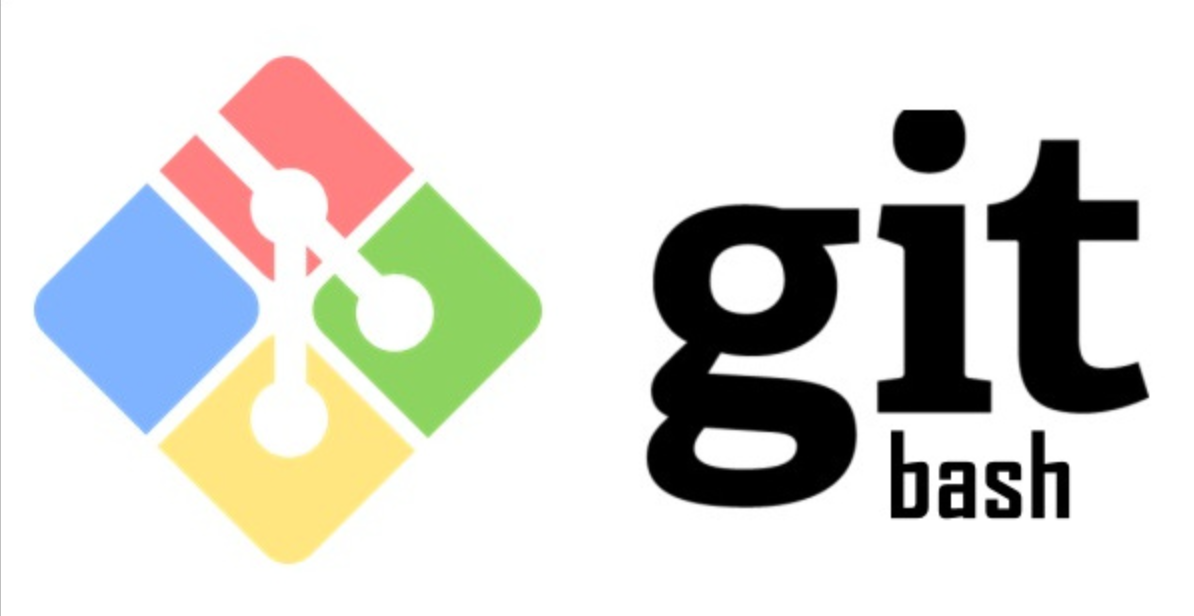
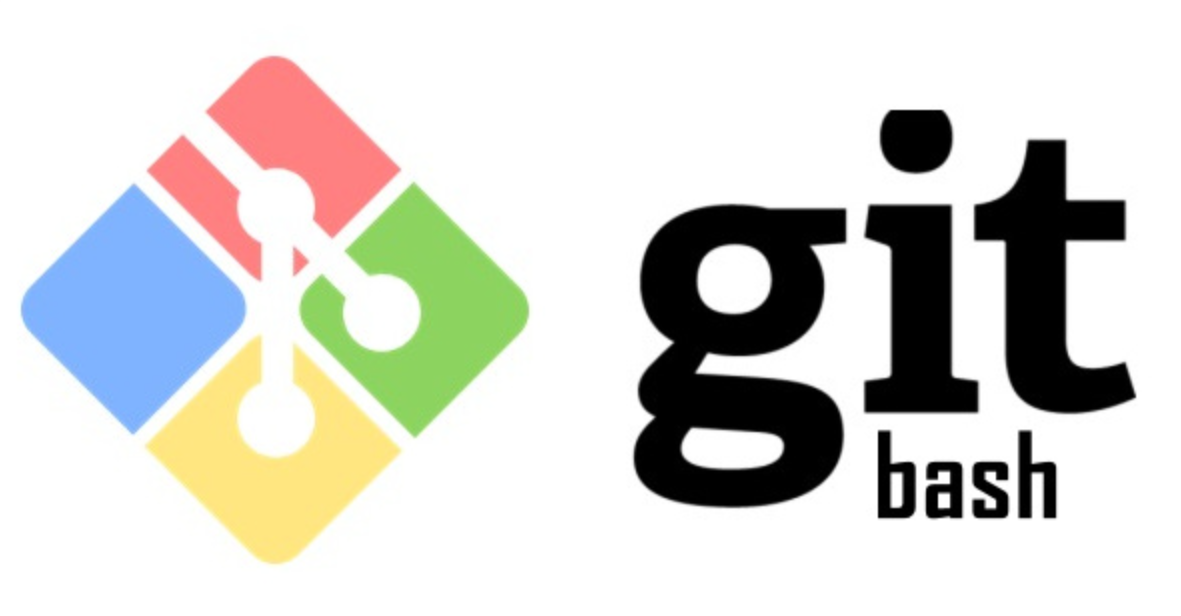
edited git_bash image and disabled .gitignore

diff --git a/will.css b/will.css
@@ -10,5 +10,5 @@ h1 {
 img {
   display: block;
   margin: 0 auto;
-  max-width: 100%;
+  max-width: 20%;
 }
